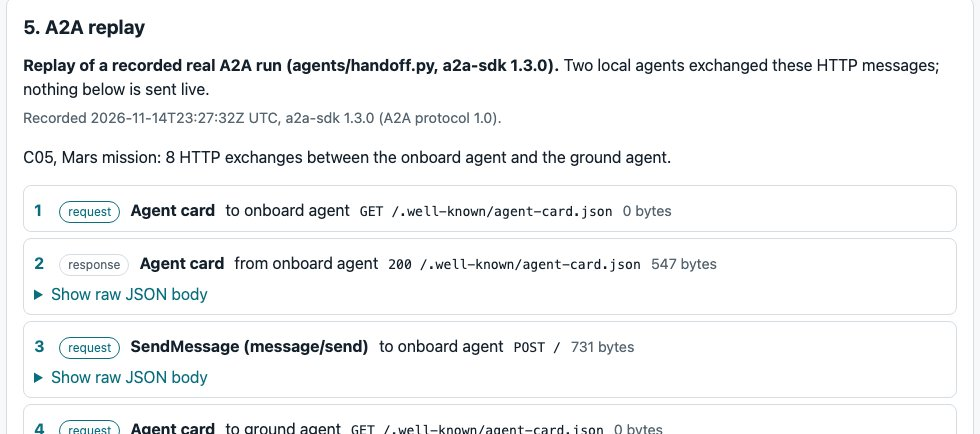
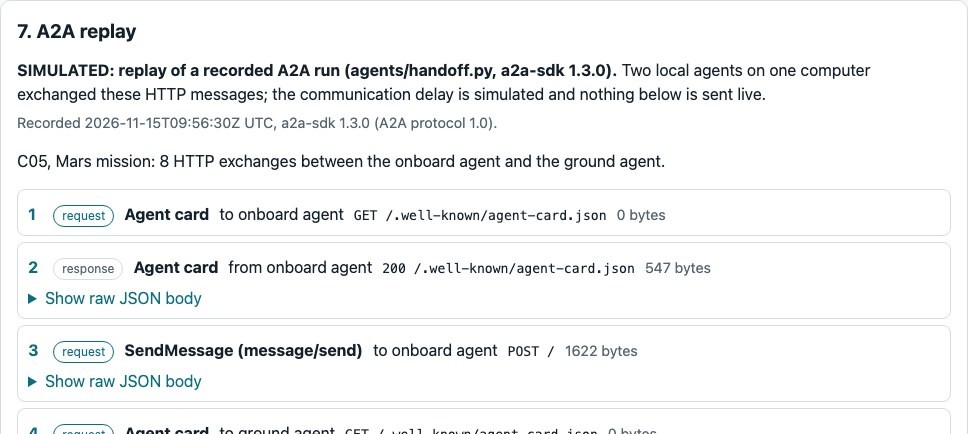
docs: demo deck updated to v2 (7 slides), fresh screenshots, test count, plural fix

diff --git a/demo/slides.html b/demo/slides.html
@@ -30,14 +30,17 @@ p, li { font-size:32px; line-height:1.35 }
 ul { padding-left:32px }
 li { margin-bottom:10px }
 a { color:var(--teal) }
+ol li { font-size:25px; margin-bottom:6px }
+.sim { position:absolute; left:0; right:0; top:0; background:#7a1d16; color:#fff; text-align:center; font-size:20px; padding:6px; letter-spacing:.04em }
 .meta p { font-size:30px; margin-bottom:8px }
 </style></head><body>
 
 <!-- 1 -->
 <section>
-  <p class="muted" style="font-size:24px">NASA Space Apps Challenge 2026 &middot; Boston (Virtual)</p>
-  <h1 id="app-name" style="margin-top:70px">VTE Watch</h1>
-  <p style="font-size:44px; margin:14px 0 56px; max-width:1000px">NASA's new blood-clot score, checkable in orbit and on the ground</p>
+  <div class="sim">SIMULATION: NOT FOR OPERATIONAL MEDICAL USE &middot; synthetic data</div>
+  <p class="muted" style="font-size:24px; margin-top:20px">NASA Space Apps Challenge 2026 &middot; Boston (Virtual)</p>
+  <h1 id="app-name" style="margin-top:84px">VTE Watch</h1>
+  <p style="font-size:44px; margin:14px 0 56px; max-width:1000px">NASA-referenced clot risk, organized for flight-surgeon review</p>
   <div class="meta">
     <p><b>Team:</b> Orbital Health Informatics</p>
     <p><b>Members:</b> <span id="members">{{MEMBERS}}</span></p>
@@ -48,7 +51,8 @@ a { color:var(--teal) }
 
 <!-- 2 -->
 <section>
-  <h2>The problem</h2>
+  <div class="sim">SIMULATION: NOT FOR OPERATIONAL MEDICAL USE &middot; synthetic data</div>
+  <h2 style="margin-top:20px">The problem</h2>
   <div class="cols">
     <div style="width:520px"><div class="big">8 of 31</div><p style="margin-top:8px">astronauts had a left jugular vein flow anomaly in flight</p><p class="muted" style="font-size:20px; margin-top:6px">NASA VTE report, July 2026</p></div>
     <div style="flex:1">
@@ -66,7 +70,8 @@ a { color:var(--teal) }
 
 <!-- 3 -->
 <section>
-  <h2>NASA's score, every point explained</h2>
+  <div class="sim">SIMULATION: NOT FOR OPERATIONAL MEDICAL USE &middot; synthetic data</div>
+  <h2 style="margin-top:20px">NASA's score, every point explained</h2>
   <div class="cols">
     <img class="shot" src="shots/score.jpg" style="height:560px" alt="Score breakdown for case C05">
     <div style="flex:1">
@@ -74,7 +79,7 @@ a { color:var(--teal) }
       <div class="big" style="font-size:120px">9 points</div>
       <p style="margin:6px 0 18px"><b>&gt; 6 points = need clinical assessment</b></p>
       <p>Every point shows NASA's rule, the input and the source.</p>
-      <p class="note" style="margin-top:22px">Reference for clinician review &mdash; not a diagnosis or prescription.</p>
+      <p class="note" style="margin-top:22px">The risk score is not a diagnostic test. New symptoms need their own assessment whatever the score.</p>
     </div>
   </div>
   <div class="n">3 / 7</div>
@@ -82,59 +87,65 @@ a { color:var(--teal) }
 
 <!-- 4 -->
 <section>
-  <h2>Same score. Different distance.</h2>
+  <div class="sim">SIMULATION: NOT FOR OPERATIONAL MEDICAL USE &middot; synthetic data</div>
+  <h2 style="margin-top:20px">Low score, new symptom: the app keeps them apart</h2>
   <div class="cols">
-    <img class="shot" src="shots/mission.jpg" style="height:500px" alt="Mission panel on Mars">
+    <img class="shot" src="shots/symptoms.jpg" style="width:640px" alt="Symptom checklist for case C11 with the emergency message">
     <div style="flex:1">
-      <p><b>9 points</b> at LEO, the Moon and Mars.</p>
-      <p style="margin-top:14px">The ground's reply reaches the crew after:</p>
-      <div class="kv" style="margin-top:14px; flex-direction:column; gap:10px">
-        <div class="card" style="text-align:left"><b style="display:inline; font-size:40px">3 s</b> <span>&nbsp;LEO</span></div>
-        <div class="card" style="text-align:left"><b style="display:inline; font-size:40px">28 s</b> <span>&nbsp;Moon</span></div>
-        <div class="card" style="text-align:left"><b style="display:inline; font-size:40px">80 min</b> <span>&nbsp;Mars</span></div>
-      </div>
+      <p class="muted" style="font-size:22px">Synthetic case C11</p>
+      <ol style="padding-left:30px; font-size:24px; line-height:1.28">
+        <li>NASA score: <b>1 point</b>, "no additional action".</li>
+        <li>Crew ticks <b>new change in vision</b>. It adds no points.</li>
+        <li>The checklist says, at once, onboard: <b>"Start your onboard medical emergency procedure now; do not wait for this app or a ground reply."</b></li>
+        <li>The packet to the ground carries the score, its sources, the scan state and the symptom report.</li>
+      </ol>
+      <p class="note" style="margin-top:14px; font-size:24px">Not a detector. No listed symptoms does not exclude thrombosis.</p>
     </div>
   </div>
-  <p class="muted" style="font-size:22px; margin-top:18px">Delay simulated at the upper end of NASA's published ranges.</p>
   <div class="n">4 / 7</div>
 </section>
 
 <!-- 5 -->
 <section>
-  <h2>Two agents, one human decision</h2>
-  <div class="flow" style="margin-top:6px">
-    <div class="box" style="width:330px">Onboard agent<small>scores with NASA's method</small></div>
-    <div class="arrow">A2A<br>&rarr;</div>
-    <div class="box" style="width:330px">Ground agent<small>queues; no clinical decision</small></div>
-    <div class="arrow">&rarr;</div>
-    <div class="box" style="width:330px; background:#e3f1f3">Flight surgeon<small>a human decides</small></div>
-  </div>
-  <div class="cols" style="margin-top:26px; align-items:center">
-    <img class="shot" src="shots/replay.jpg" style="height:350px" alt="A2A replay panel">
-    <p style="flex:1">Real A2A run (a2a-sdk 1.3.0), recorded and replayed in the app.</p>
+  <div class="sim">SIMULATION: NOT FOR OPERATIONAL MEDICAL USE &middot; synthetic data</div>
+  <h2 style="margin-top:20px">Two agents, one human decision</h2>
+  <div class="cols">
+    <img class="shot" src="shots/mission.jpg" style="height:560px" alt="Hand-off packet and simulated delay for case C11 on Mars">
+    <div style="flex:1">
+      <div class="flow" style="flex-direction:column; align-items:stretch; gap:6px">
+        <div class="box" style="font-size:26px">Onboard agent<small>packet: score, sources, scan state, symptom report, message shown</small></div>
+        <div class="arrow">A2A &darr; (real run, recorded)</div>
+        <div class="box" style="font-size:26px">Ground agent<small>queues; no clinical decision</small></div>
+        <div class="arrow">&darr;</div>
+        <div class="box" style="font-size:26px; background:#e3f1f3">Flight surgeon<small>a human decides</small></div>
+      </div>
+      <p style="font-size:21px; margin-top:10px">Simulated one-way delay 1.5 s, 14 s, 40 min: earliest reply 3 s, 28 s, 80 min (LEO, Moon, Mars). One-way delay is not clinical response time.</p>
+    </div>
   </div>
   <div class="n">5 / 7</div>
 </section>
 
 <!-- 6 -->
 <section>
-  <h2>NASA data, and the proof</h2>
+  <div class="sim">SIMULATION: NOT FOR OPERATIONAL MEDICAL USE &middot; synthetic data</div>
+  <h2 style="margin-top:20px">NASA data, and the proof</h2>
   <div class="kv" style="margin-bottom:26px">
     <div class="card"><b>3</b><span>NASA documents on the main path</span></div>
-    <div class="card"><b>10/10</b><span>synthetic cases match totals worked out by hand first</span></div>
-    <div class="card"><b>41</b><span>automated tests</span></div>
+    <div class="card"><b>11/11</b><span>synthetic cases match totals worked out by hand first</span></div>
+    <div class="card"><b>68</b><span>automated tests</span></div>
   </div>
   <ul style="margin-top:34px">
     <li>NASA/SP-20260005258 REV1 &middot; OCHMO-MTB-007 &middot; OCHMO-TB-007</li>
-    <li>The 10 cases cover every band and every rule edge.</li>
+    <li>The 11 cases cover every band, every rule edge and the demo case.</li>
   </ul>
-  <p class="note" style="margin-top:34px; font-size:28px"><b>Limits:</b> synthetic data; faithful to NASA's method, not a validated predictor.</p>
+  <p class="note" style="margin-top:34px; font-size:28px"><b>Limits:</b> synthetic data; it ranks and organizes NASA-referenced risk, it does not detect or predict clots, and no performance was measured.</p>
   <div class="n">6 / 7</div>
 </section>
 
 <!-- 7 -->
 <section>
-  <h2>Where it could go</h2>
+  <div class="sim">SIMULATION: NOT FOR OPERATIONAL MEDICAL USE &middot; synthetic data</div>
+  <h2 style="margin-top:20px">Where it could go</h2>
   <ul style="margin-top:10px">
     <li>The score next to onboard ultrasound scans on long missions.</li>
     <li>D-dimer scored once in-flight testing exists. NASA says there are no adequate in-flight methods today.</li>

diff --git a/site/app.js b/site/app.js
@@ -296,7 +296,7 @@ function renderMission(c, res) {
   if (res) {
     out.append(h("p", {}, "The score does not change with distance. Only the review context does."));
     out.append(h("div", { class: "same", "aria-label": "Score by mission" },
-      Object.keys(MISSIONS).map((m) => h("span", { class: m === state.mission ? "on" : "" }, `${MISSIONS[m].name}: ${res.total} points, ${res.nasa_reference_band.split(" = ")[1] || "no band"}`))));
+      Object.keys(MISSIONS).map((m) => h("span", { class: m === state.mission ? "on" : "" }, `${MISSIONS[m].name}: ${res.total} point${res.total === 1 ? "" : "s"}, ${res.nasa_reference_band.split(" = ")[1] || "no band"}`))));
   }
 
   renderPacket(out, c, res, run0(c, res));

diff --git a/CLAIMS.md b/CLAIMS.md
@@ -12,7 +12,7 @@ Every claim or number that appears in the README, the project page, the slides o
 | "The score and band stay the same at LEO, the Moon and Mars" | README, app | `tests/test_handoff.py::test_distance_changes_context_not_score` | 15 Nov |
 | "The ground agent makes no clinical decision" | README, app | `agents/handoff.py` `Ground`: `ground_decision: None`; test asserts it | 15 Nov |
 | NASA points and bands quoted in the app | app, DATA_CARD | `vte/score.py` strings vs NASA/SP-20260005258 REV1 page 8 table; `tests/test_score.py::test_bands_verbatim` | 15 Nov |
-| "N automated tests" | slides (6) | NOT YET UPDATED: the slide still says 41; the suite is now larger (`python -m unittest discover -s tests`). Update the slide after the final run | 15 Nov |
+| "68 automated tests" | slides (6) | `python -m unittest discover -s tests` in the project venv: "Ran 68 tests ... OK" (outside the venv, the A2A tests skip) | 15 Nov |
 | "SIMULATION: NOT FOR OPERATIONAL MEDICAL USE"; "does not detect, diagnose or predict clots"; "risk score is not a diagnostic test" | README, app banner and under the score | Our scope statement: no performance was measured (README Limits). Wording checked in `site/index.html`, `site/app.js` | 15 Nov |
 | "The NASA jugular ultrasound protocol does not exclude a clot in the brain's venous sinuses" | app | NASA/SP-20260005258 REV1: sinus-clot cases presented with symptoms; in-flight jugular ultrasound is the protocol (MTB-007). Worded as "does not exclude", not as a measured limit | 15 Nov |
 | "Stasis = mean peak velocity less than 10 cm/s anterograde, or retrograde flow" (labels "Forward flow", "Low velocity (mean peak <10 cm/s anterograde)", "Retrograde flow") | app trend | SP-20260005258 REV1: "mean peak velocity is less than 10 cm/s anterograde"; score row "Stasis (less than 10 cm/s blood flow velocity) or retrograde flow" +4. `tests/test_trend.py` (10.0 vs 9.9 boundary, retrograde at high speed) | 15 Nov |
